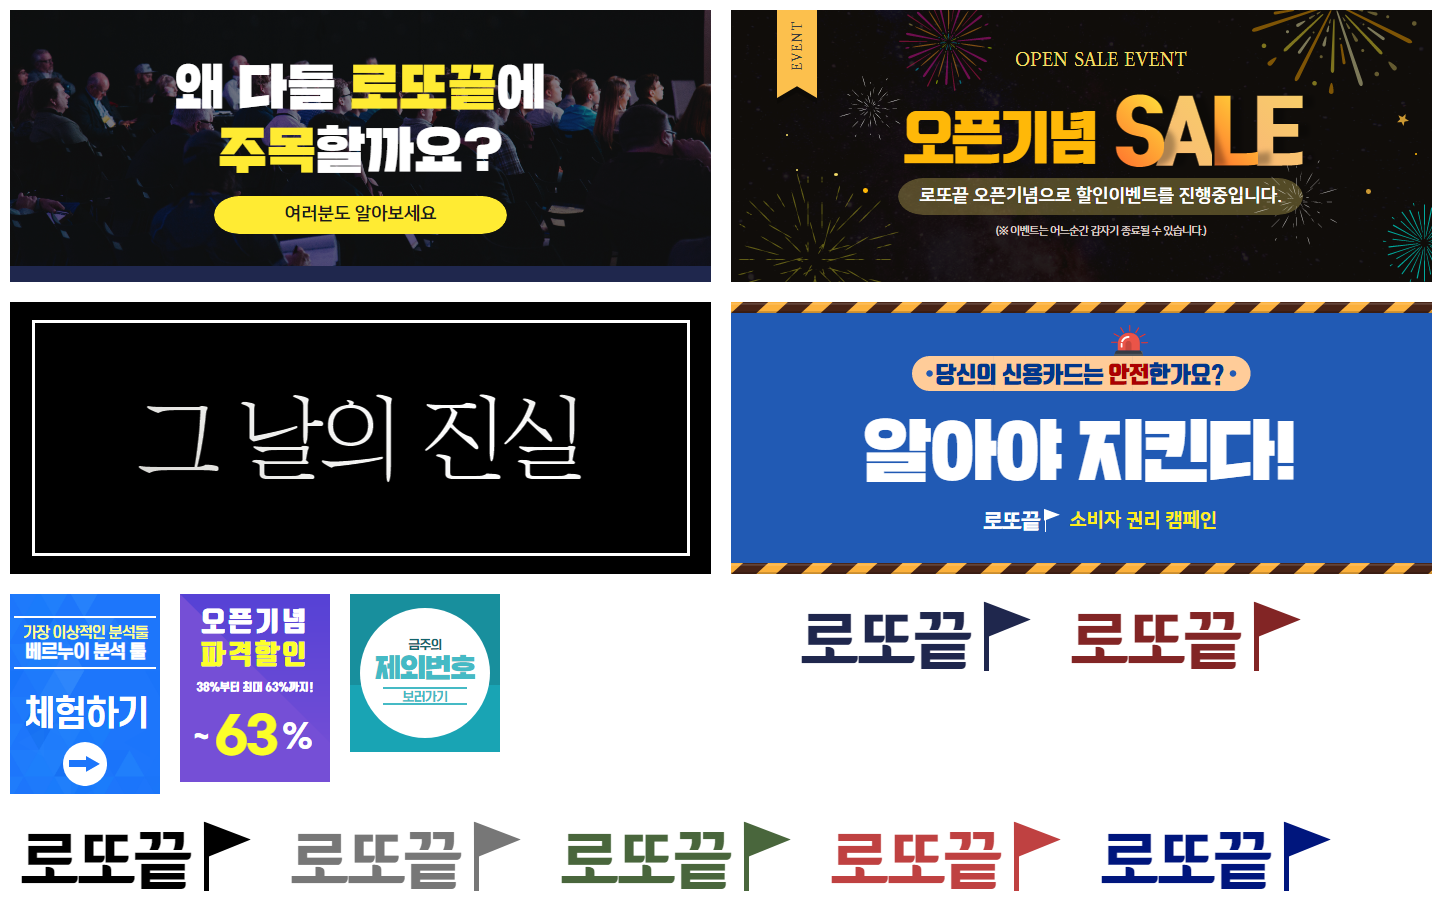
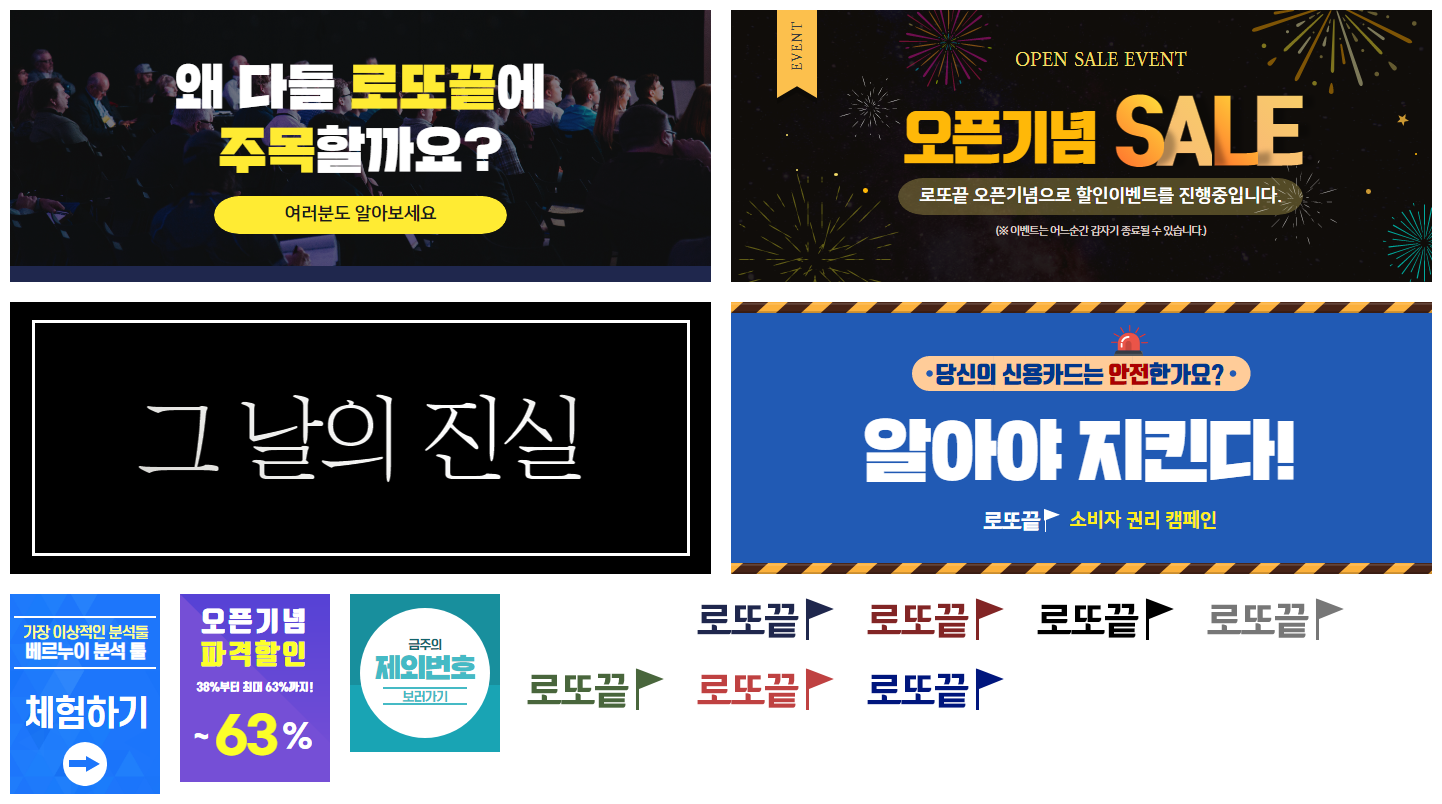
css

diff --git a/main.css b/main.css
@@ -540,6 +540,7 @@ flex:2;
 }
 
 .community-tab{
+  background-color: rgb(250, 250, 250);
   flex:1;
   display: flex;
   align-items: center;
@@ -558,17 +559,17 @@ flex:2;
 }
 
 .community-tab-current{
-  background-color: rgb(250, 250, 250);
+  background-color: white;
   border-bottom: none;
 }
 
 
 .community-content-box{
+  height:31rem;
   padding:1rem 0;
   border-left:1px solid rgba(0, 0, 0, 0.1);
   border-right:1px solid rgba(0, 0, 0, 0.1);
   border-bottom:1px solid rgba(0, 0, 0, 0.1);
-  background-color: rgb(250, 250, 250);
 }
 
 .community-content{
@@ -804,9 +805,4 @@ flex:2;
 }
 .community-box{
   padding:0;
-}
-#logo{
-  width: 70rem;
-  height: 27rem;
-  background: url(./img/main.png) -10px -813px;
 }

diff --git a/base/css/header.css b/base/css/header.css
@@ -17,13 +17,17 @@
 }
 
 .mid-nav-logo{
-  display:flex;
+  display: flex;
   align-items: center;
-  width: 12rem;
+  width: 14rem;
   height: 100%;
-  margin-left:4rem;
+  margin-left: 3rem;
 }
-
+#logo {
+  width: 28rem;
+  height: 5.0rem;
+  background: url(../../img/main.png) -524px -1398px;
+}
 .mid-nav-logo > a{
   display:flex;
   align-items: center;
